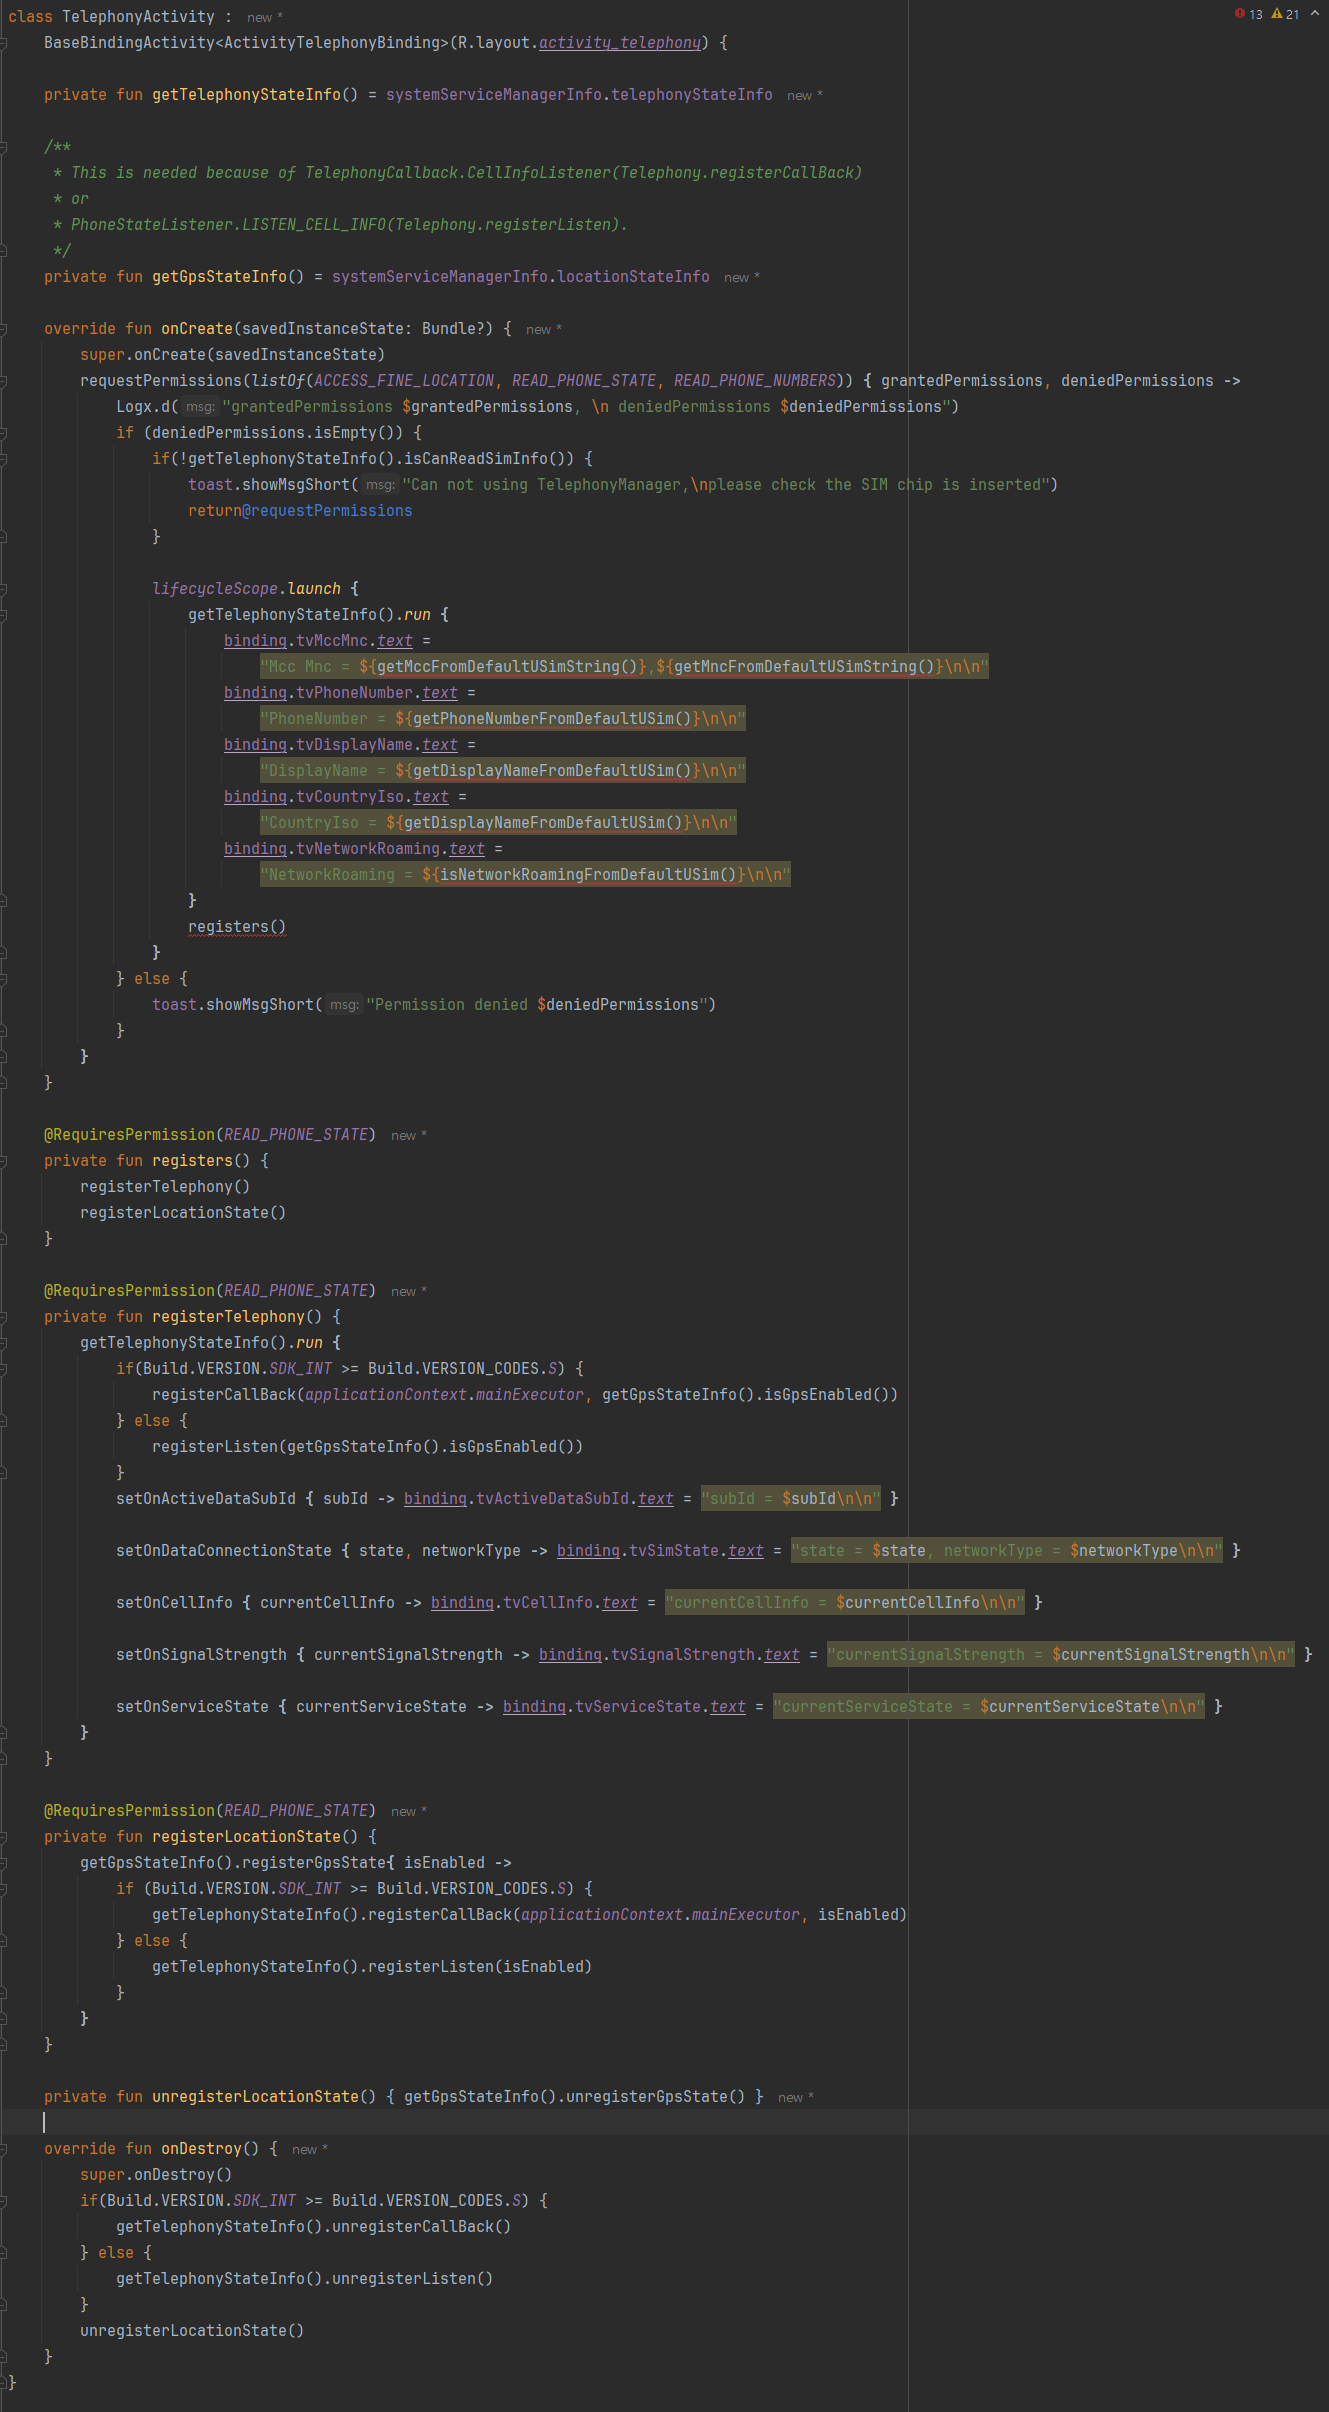
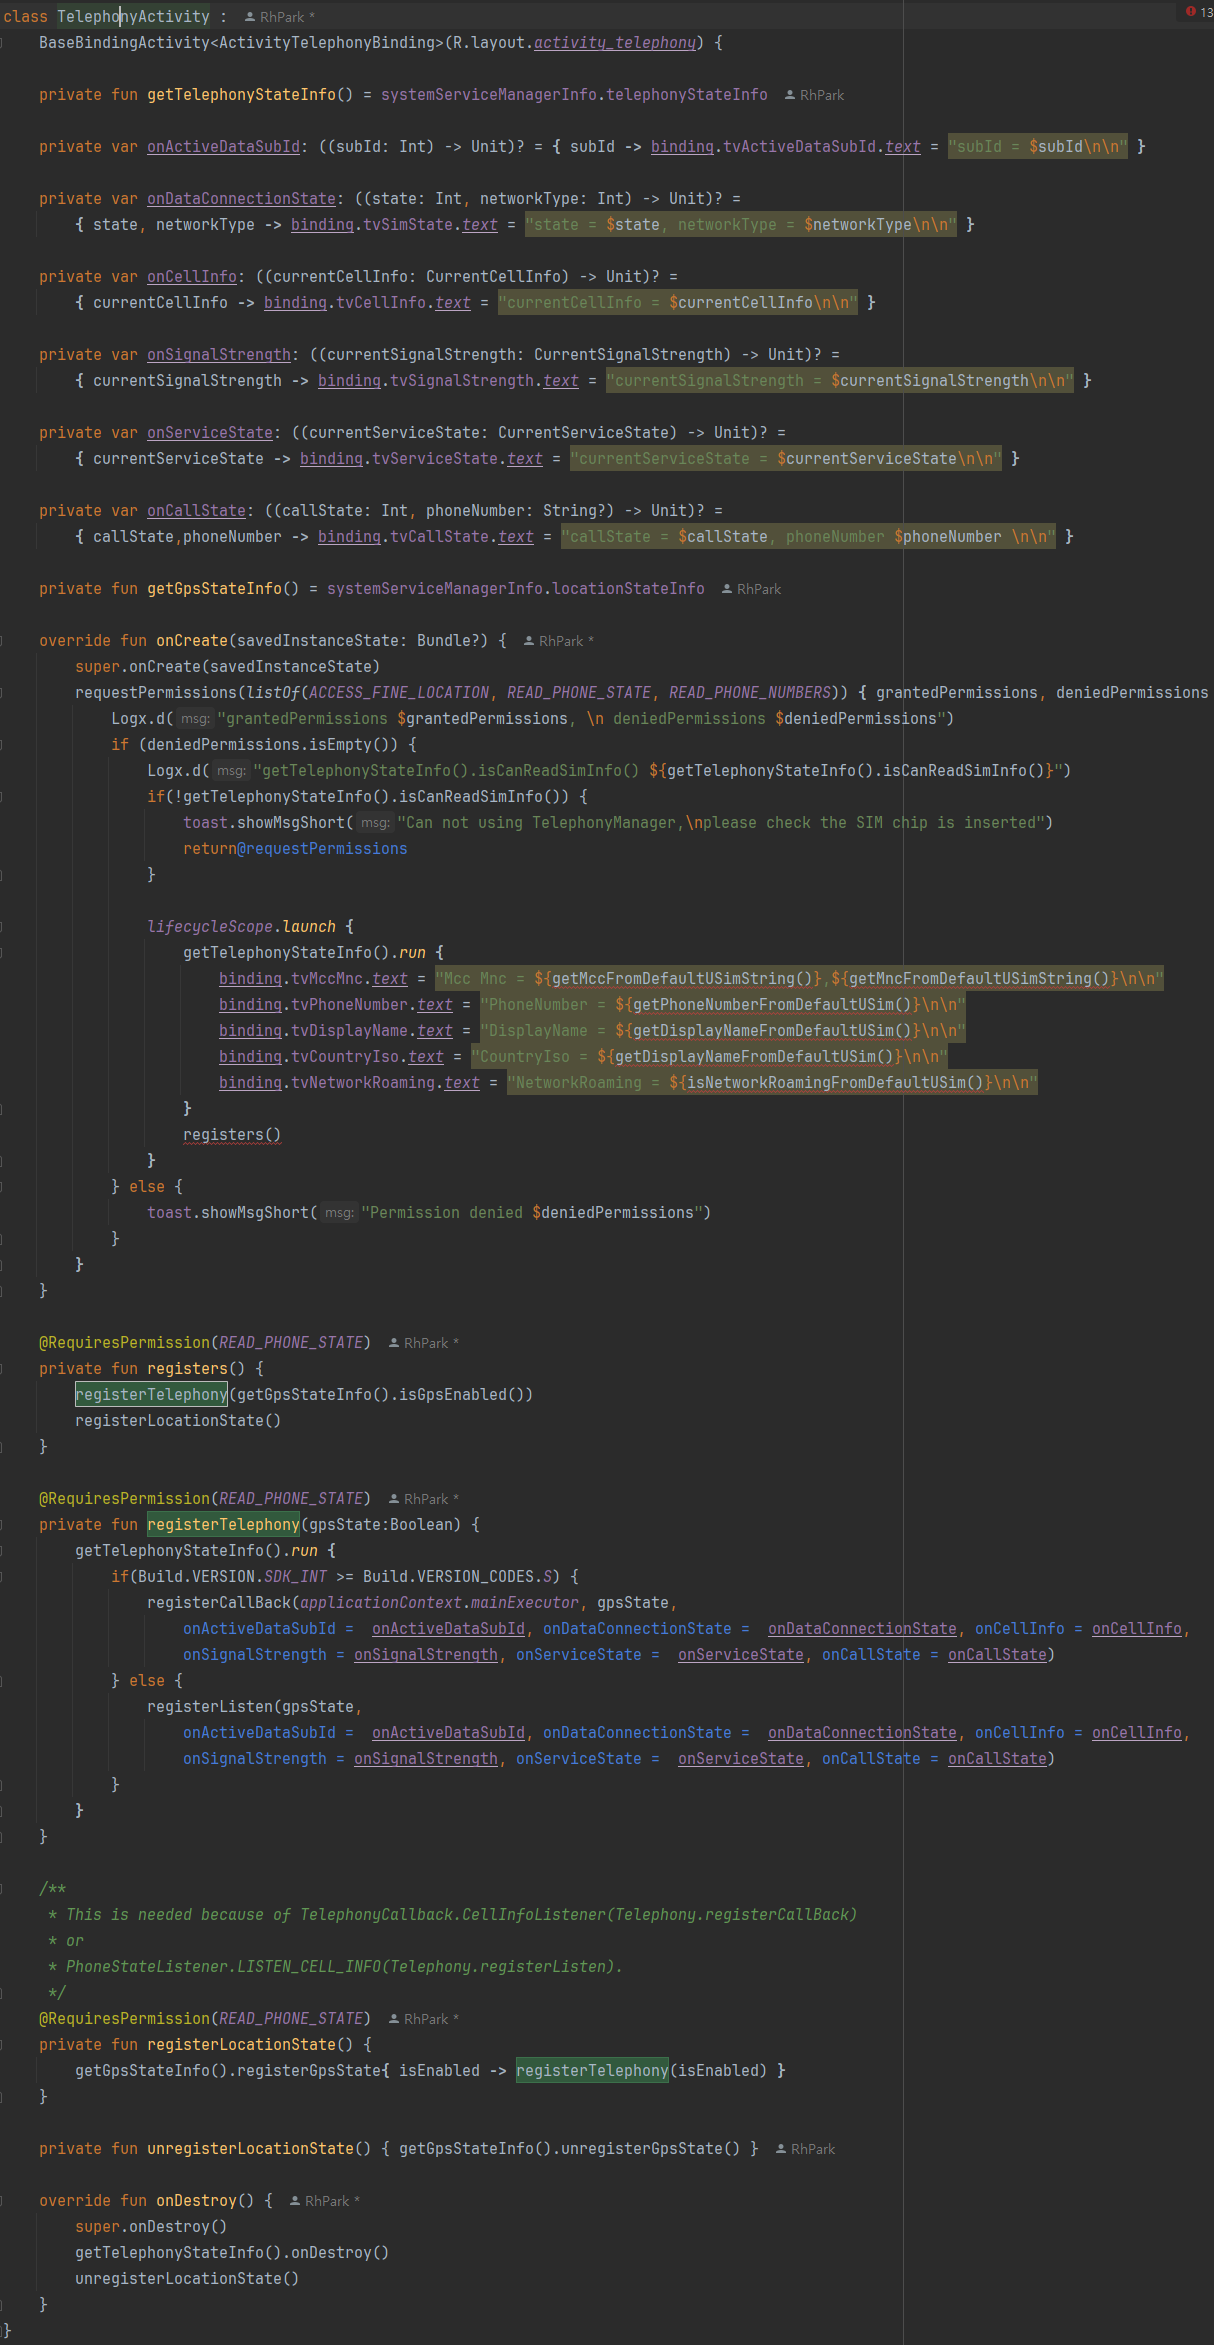
version   "0.6.0"
Edit
 1.

Bug
 Edit
  1. TelephonyStateInfo
    . register 시 바로 callback 설정할 수 있도록 변경
    . onDestroy 시 unregister()
    . allClearCallback() 추가

 Remove
  1.

New

 Add
  1.

 Edit
  1.

 Remove
  1.

 Remains
   1. LocationStateInfo 20%
   2. UsimStateInfo 50%
   3. NetworkStateInfo 10%
   4. WindowManagerController 50%

Changed region(s): [[0.0, 0.0, 0.9753, 0.9962], [0.4267, 0.8716, 0.5791, 0.9028]]

diff --git a/library/src/main/java/kr/open/rhpark/library/system/service/access/telephony/telephony/TelephonyStateInfo.kt b/library/src/main/java/kr/open/rhpark/library/system/service/access/telephony/telephony/TelephonyStateInfo.kt
@@ -19,7 +19,7 @@ import kr.open.rhpark.library.system.service.access.telephony.data.current.Curre
 import java.util.concurrent.Executor
 
 
-public class TelephonyStateInfo(
+public open class TelephonyStateInfo(
     context: Context,
     telephonyManager: TelephonyManager,
     subscriptionManager: SubscriptionManager,
@@ -74,21 +74,45 @@ public class TelephonyStateInfo(
      */
     @RequiresApi(Build.VERSION_CODES.S)
     @RequiresPermission(READ_PHONE_STATE)
-    public fun registerCallBack(executor: Executor, isGpsOn: Boolean) {
+    public fun registerCallBack(
+        executor: Executor,
+        isGpsOn: Boolean,
+        onActiveDataSubId: ((subId: Int) -> Unit)? = null,
+        onDataConnectionState: ((state: Int, networkType: Int) -> Unit)? = null,
+        onCellInfo: ((currentCellInfo: CurrentCellInfo) -> Unit)? = null,
+        onSignalStrength: ((currentSignalStrength: CurrentSignalStrength) -> Unit)? = null,
+        onServiceState: ((currentServiceState: CurrentServiceState) -> Unit)? = null,
+        onCallState: ((callState: Int, phoneNumber: String?) -> Unit)? = null
+        )
+    {
         unregisterCallBack()
         if(isGpsOn) {
             telephonyManager.registerTelephonyCallback(executor, telephonyCallback.baseGpsTelephonyCallback)
         } else {
             telephonyManager.registerTelephonyCallback(executor, telephonyCallback.baseTelephonyCallback)
         }
+
         isRegistered = true
+
+        setOnActiveDataSubId(onActiveDataSubId)
+        setOnDataConnectionState(onDataConnectionState)
+        setOnCellInfo(onCellInfo)
+        setOnSignalStrength(onSignalStrength)
+        setOnServiceState(onServiceState)
+        setOnCallState(onCallState)
     }
 
     /**
      * SDK_INT < Build.VERSION_CODES.S
      */
     @RequiresPermission(READ_PHONE_STATE)
-    public fun registerListen(isGpsOn:Boolean) {
+    public fun registerListen(isGpsOn:Boolean,
+                              onActiveDataSubId: ((subId: Int) -> Unit)? = null,
+                              onDataConnectionState: ((state: Int, networkType: Int) -> Unit)? = null,
+                              onCellInfo: ((currentCellInfo: CurrentCellInfo) -> Unit)? = null,
+                              onSignalStrength: ((currentSignalStrength: CurrentSignalStrength) -> Unit)? = null,
+                              onServiceState: ((currentServiceState: CurrentServiceState) -> Unit)? = null,
+                              onCallState: ((callState: Int, phoneNumber: String?) -> Unit)? = null) {
         unregisterListen()
         if(Build.VERSION.SDK_INT >= Build.VERSION_CODES.S) {
             throw UnsupportedOperationException("SDK_INT >= Build.VERSION_CODES.S Your Version is ${Build.VERSION.SDK_INT}")
@@ -115,9 +139,15 @@ public class TelephonyStateInfo(
         }
         telephonyManager.listen(telephonyCallback.basePhoneStateListener,event)
 
-
         isRegistered = true
         Logx.d("isRegistered $isRegistered")
+
+        setOnActiveDataSubId(onActiveDataSubId)
+        setOnDataConnectionState(onDataConnectionState)
+        setOnCellInfo(onCellInfo)
+        setOnSignalStrength(onSignalStrength)
+        setOnServiceState(onServiceState)
+        setOnCallState(onCallState)
     }
 
     /**
@@ -151,15 +181,22 @@ public class TelephonyStateInfo(
         isRegistered = false
     }
 
-    /**
-     * You must call
-     * TelephonyStateInfo.registerCallBack() or TelephonyStateInfo.registerListen() first before using it.
-     * **/
+    public override fun onDestroy() {
+        if(Build.VERSION.SDK_INT >= Build.VERSION_CODES.S) {
+            unregisterCallBack()
+        } else {
+            unregisterListen()
+        }
+    }
+
     @RequiresPermission(READ_PHONE_STATE)
-    public fun setOnActiveDataSubId(onActiveDataSubId: (subId: Int) -> Unit) {
-        checkIfRegistered()
-        this.telephonyCallback.setOnActiveDataSubId(onActiveDataSubId)
-        this.telephonyCallback.setOnActiveDataSubId(null)
+    public fun allClearCallback() {
+        setOnActiveDataSubId(null)
+        setOnDataConnectionState(null)
+        setOnCellInfo(null)
+        setOnSignalStrength(null)
+        setOnServiceState(null)
+        setOnCallState(null)
     }
 
     /**
@@ -167,7 +204,17 @@ public class TelephonyStateInfo(
      * TelephonyStateInfo.registerCallBack() or TelephonyStateInfo.registerListen() first before using it.
      * **/
     @RequiresPermission(READ_PHONE_STATE)
-    public fun setOnDataConnectionState(onDataConnectionState: (state: Int, networkType: Int) -> Unit) {
+    public fun setOnActiveDataSubId(onActiveDataSubId: ((subId: Int) -> Unit)? = null) {
+        checkIfRegistered()
+        this.telephonyCallback.setOnActiveDataSubId(onActiveDataSubId)
+    }
+
+    /**
+     * You must call
+     * TelephonyStateInfo.registerCallBack() or TelephonyStateInfo.registerListen() first before using it.
+     * **/
+    @RequiresPermission(READ_PHONE_STATE)
+    public fun setOnDataConnectionState(onDataConnectionState: ((state: Int, networkType: Int) -> Unit)? = null) {
         checkIfRegistered()
         this.telephonyCallback.setOnDataConnectionState(onDataConnectionState)
     }
@@ -177,7 +224,7 @@ public class TelephonyStateInfo(
      * TelephonyStateInfo.registerCallBack() or TelephonyStateInfo.registerListen() first before using it.
      * **/
     @RequiresPermission(READ_PHONE_STATE)
-    public fun setOnCellInfo(onCellInfo: (currentCellInfo: CurrentCellInfo?) -> Unit) {
+    public fun setOnCellInfo(onCellInfo: ((currentCellInfo: CurrentCellInfo) -> Unit)? = null) {
         checkIfRegistered()
         this.telephonyCallback.setOnCellInfo(onCellInfo)
     }
@@ -187,7 +234,7 @@ public class TelephonyStateInfo(
      * TelephonyStateInfo.registerCallBack() or TelephonyStateInfo.registerListen() first before using it.
      * **/
     @RequiresPermission(READ_PHONE_STATE)
-    public fun setOnSignalStrength(onSignalStrength: (currentSignalStrength: CurrentSignalStrength?) -> Unit) {
+    public fun setOnSignalStrength(onSignalStrength: ((currentSignalStrength: CurrentSignalStrength) -> Unit)? = null) {
         checkIfRegistered()
         this.telephonyCallback.setOnSignalStrength(onSignalStrength)
     }
@@ -197,9 +244,15 @@ public class TelephonyStateInfo(
      * TelephonyStateInfo.registerCallBack() or TelephonyStateInfo.registerListen() first before using it.
      * **/
     @RequiresPermission(READ_PHONE_STATE)
-    public fun setOnServiceState(onServiceState: (currentServiceState: CurrentServiceState?) -> Unit) {
+    public fun setOnServiceState(onServiceState: ((currentServiceState: CurrentServiceState) -> Unit)? = null) {
         checkIfRegistered()
         this.telephonyCallback.setOnServiceState(onServiceState)
+    }
+
+    @RequiresPermission(READ_PHONE_STATE)
+    public fun setOnCallState(onCallState: ((callState: Int, phoneNumber: String?) -> Unit)? = null) {
+        checkIfRegistered()
+        this.telephonyCallback.setOnCallState(onCallState)
     }
 
     private fun checkIfRegistered() {

diff --git a/app/src/main/java/kr/open/rhpark/app/activity/telephony/TelephonyActivity.kt b/app/src/main/java/kr/open/rhpark/app/activity/telephony/TelephonyActivity.kt
@@ -11,6 +11,9 @@ import kotlinx.coroutines.launch
 import kr.open.rhpark.app.R
 import kr.open.rhpark.app.databinding.ActivityTelephonyBinding
 import kr.open.rhpark.library.debug.logcat.Logx
+import kr.open.rhpark.library.system.service.access.telephony.data.current.CurrentCellInfo
+import kr.open.rhpark.library.system.service.access.telephony.data.current.CurrentServiceState
+import kr.open.rhpark.library.system.service.access.telephony.data.current.CurrentSignalStrength
 import kr.open.rhpark.library.ui.activity.BaseBindingActivity
 
 class TelephonyActivity :
@@ -18,11 +21,23 @@ class TelephonyActivity :
 
     private fun getTelephonyStateInfo() = systemServiceManagerInfo.telephonyStateInfo
 
-    /**
-     * This is needed because of TelephonyCallback.CellInfoListener(Telephony.registerCallBack)
-     * or
-     * PhoneStateListener.LISTEN_CELL_INFO(Telephony.registerListen).
-     */
+    private var onActiveDataSubId: ((subId: Int) -> Unit)? = { subId -> binding.tvActiveDataSubId.text = "subId = $subId\n\n" }
+
+    private var onDataConnectionState: ((state: Int, networkType: Int) -> Unit)? =
+        { state, networkType -> binding.tvSimState.text = "state = $state, networkType = $networkType\n\n" }
+
+    private var onCellInfo: ((currentCellInfo: CurrentCellInfo) -> Unit)? =
+        { currentCellInfo -> binding.tvCellInfo.text = "currentCellInfo = $currentCellInfo\n\n" }
+
+    private var onSignalStrength: ((currentSignalStrength: CurrentSignalStrength) -> Unit)? =
+        { currentSignalStrength -> binding.tvSignalStrength.text = "currentSignalStrength = $currentSignalStrength\n\n" }
+
+    private var onServiceState: ((currentServiceState: CurrentServiceState) -> Unit)? =
+        { currentServiceState -> binding.tvServiceState.text = "currentServiceState = $currentServiceState\n\n" }
+
+    private var onCallState: ((callState: Int, phoneNumber: String?) -> Unit)? =
+        { callState,phoneNumber -> binding.tvCallState.text = "callState = $callState, phoneNumber $phoneNumber \n\n" }
+
     private fun getGpsStateInfo() = systemServiceManagerInfo.locationStateInfo
 
     override fun onCreate(savedInstanceState: Bundle?) {
@@ -38,16 +53,11 @@ class TelephonyActivity :
 
                 lifecycleScope.launch {
                     getTelephonyStateInfo().run {
-                        binding.tvMccMnc.text =
-                            "Mcc Mnc = ${getMccFromDefaultUSimString()},${getMncFromDefaultUSimString()}\n\n"
-                        binding.tvPhoneNumber.text =
-                            "PhoneNumber = ${getPhoneNumberFromDefaultUSim()}\n\n"
-                        binding.tvDisplayName.text =
-                            "DisplayName = ${getDisplayNameFromDefaultUSim()}\n\n"
-                        binding.tvCountryIso.text =
-                            "CountryIso = ${getDisplayNameFromDefaultUSim()}\n\n"
-                        binding.tvNetworkRoaming.text =
-                            "NetworkRoaming = ${isNetworkRoamingFromDefaultUSim()}\n\n"
+                        binding.tvMccMnc.text = "Mcc Mnc = ${getMccFromDefaultUSimString()},${getMncFromDefaultUSimString()}\n\n"
+                        binding.tvPhoneNumber.text = "PhoneNumber = ${getPhoneNumberFromDefaultUSim()}\n\n"
+                        binding.tvDisplayName.text = "DisplayName = ${getDisplayNameFromDefaultUSim()}\n\n"
+                        binding.tvCountryIso.text = "CountryIso = ${getDisplayNameFromDefaultUSim()}\n\n"
+                        binding.tvNetworkRoaming.text = "NetworkRoaming = ${isNetworkRoamingFromDefaultUSim()}\n\n"
                     }
                     registers()
                 }
@@ -59,50 +69,40 @@ class TelephonyActivity :
 
     @RequiresPermission(READ_PHONE_STATE)
     private fun registers() {
-        registerTelephony()
+        registerTelephony(getGpsStateInfo().isGpsEnabled())
         registerLocationState()
     }
 
     @RequiresPermission(READ_PHONE_STATE)
-    private fun registerTelephony() {
+    private fun registerTelephony(gpsState:Boolean) {
         getTelephonyStateInfo().run {
             if(Build.VERSION.SDK_INT >= Build.VERSION_CODES.S) {
-                registerCallBack(applicationContext.mainExecutor, getGpsStateInfo().isGpsEnabled())
+                registerCallBack(applicationContext.mainExecutor, gpsState,
+                    onActiveDataSubId =  onActiveDataSubId, onDataConnectionState =  onDataConnectionState, onCellInfo = onCellInfo,
+                    onSignalStrength = onSignalStrength, onServiceState =  onServiceState, onCallState = onCallState)
             } else {
-                registerListen(getGpsStateInfo().isGpsEnabled())
+                registerListen(gpsState,
+                    onActiveDataSubId =  onActiveDataSubId, onDataConnectionState =  onDataConnectionState, onCellInfo = onCellInfo,
+                    onSignalStrength = onSignalStrength, onServiceState =  onServiceState, onCallState = onCallState)
             }
-            setOnActiveDataSubId { subId -> binding.tvActiveDataSubId.text = "subId = $subId\n\n" }
-
-            setOnDataConnectionState { state, networkType -> binding.tvSimState.text = "state = $state, networkType = $networkType\n\n" }
-
-            setOnCellInfo { currentCellInfo -> binding.tvCellInfo.text = "currentCellInfo = $currentCellInfo\n\n" }
-
-            setOnSignalStrength { currentSignalStrength -> binding.tvSignalStrength.text = "currentSignalStrength = $currentSignalStrength\n\n" }
-
-            setOnServiceState { currentServiceState -> binding.tvServiceState.text = "currentServiceState = $currentServiceState\n\n" }
         }
     }
 
+    /**
+     * This is needed because of TelephonyCallback.CellInfoListener(Telephony.registerCallBack)
+     * or
+     * PhoneStateListener.LISTEN_CELL_INFO(Telephony.registerListen).
+     */
     @RequiresPermission(READ_PHONE_STATE)
     private fun registerLocationState() {
-        getGpsStateInfo().registerGpsState{ isEnabled ->
-            if (Build.VERSION.SDK_INT >= Build.VERSION_CODES.S) {
-                getTelephonyStateInfo().registerCallBack(applicationContext.mainExecutor, isEnabled)
-            } else {
-                getTelephonyStateInfo().registerListen(isEnabled)
-            }
-        }
+        getGpsStateInfo().registerGpsState{ isEnabled -> registerTelephony(isEnabled) }
     }
 
     private fun unregisterLocationState() { getGpsStateInfo().unregisterGpsState() }
 
     override fun onDestroy() {
         super.onDestroy()
-        if(Build.VERSION.SDK_INT >= Build.VERSION_CODES.S) {
-            getTelephonyStateInfo().unregisterCallBack()
-        } else {
-            getTelephonyStateInfo().unregisterListen()
-        }
+        getTelephonyStateInfo().onDestroy()
         unregisterLocationState()
     }
 }

diff --git a/library/src/main/java/kr/open/rhpark/library/system/service/access/telephony/base/CommonTelephonyCallback.kt b/library/src/main/java/kr/open/rhpark/library/system/service/access/telephony/base/CommonTelephonyCallback.kt
@@ -59,15 +59,15 @@ public open class CommonTelephonyCallback() {
         this.onDataConnectionState = onDataConnectionState
     }
 
-    public fun setOnCellInfo(onCellInfo: ((currentCellInfo: CurrentCellInfo?) -> Unit)?) {
+    public fun setOnCellInfo(onCellInfo: ((currentCellInfo: CurrentCellInfo) -> Unit)?) {
         this.onCellInfo = onCellInfo
     }
 
-    public fun setOnSignalStrength(onSignalStrength: ((currentSignalStrength: CurrentSignalStrength?) -> Unit)?) {
+    public fun setOnSignalStrength(onSignalStrength: ((currentSignalStrength: CurrentSignalStrength) -> Unit)?) {
         this.onSignalStrength = onSignalStrength
     }
 
-    public fun setOnServiceState(onServiceState: ((currentServiceState: CurrentServiceState?) -> Unit)?) {
+    public fun setOnServiceState(onServiceState: ((currentServiceState: CurrentServiceState) -> Unit)?) {
         this.onServiceState = onServiceState
     }
 

diff --git a/library/src/main/java/kr/open/rhpark/library/system/service/controller/windowmanager/WindowManagerController.kt b/library/src/main/java/kr/open/rhpark/library/system/service/controller/windowmanager/WindowManagerController.kt
@@ -72,4 +72,9 @@ public class WindowManagerController(context: Context, public val windowManager:
             PixelFormat.TRANSLUCENT
         )
     }
+
+    override fun onDestroy() {
+        super.onDestroy()
+        removeAllFloatingView()
+    }
 }
